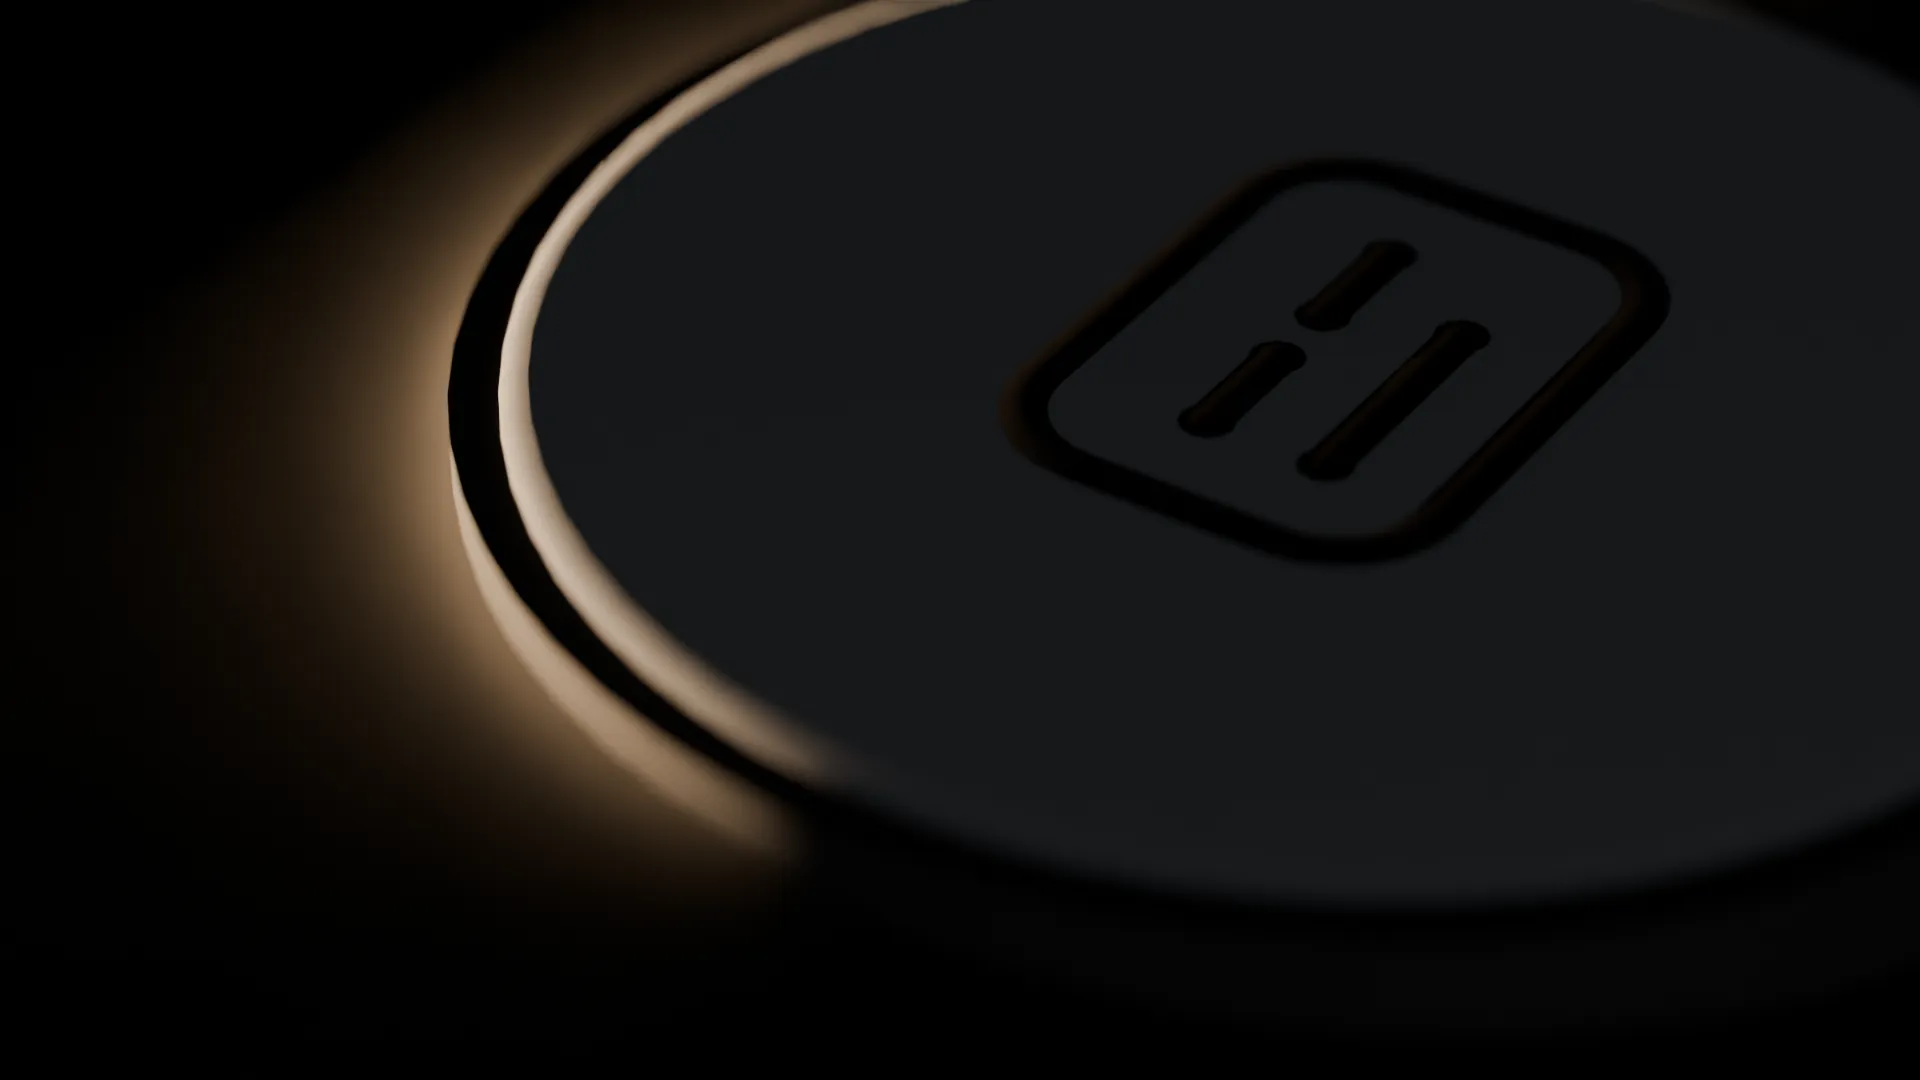
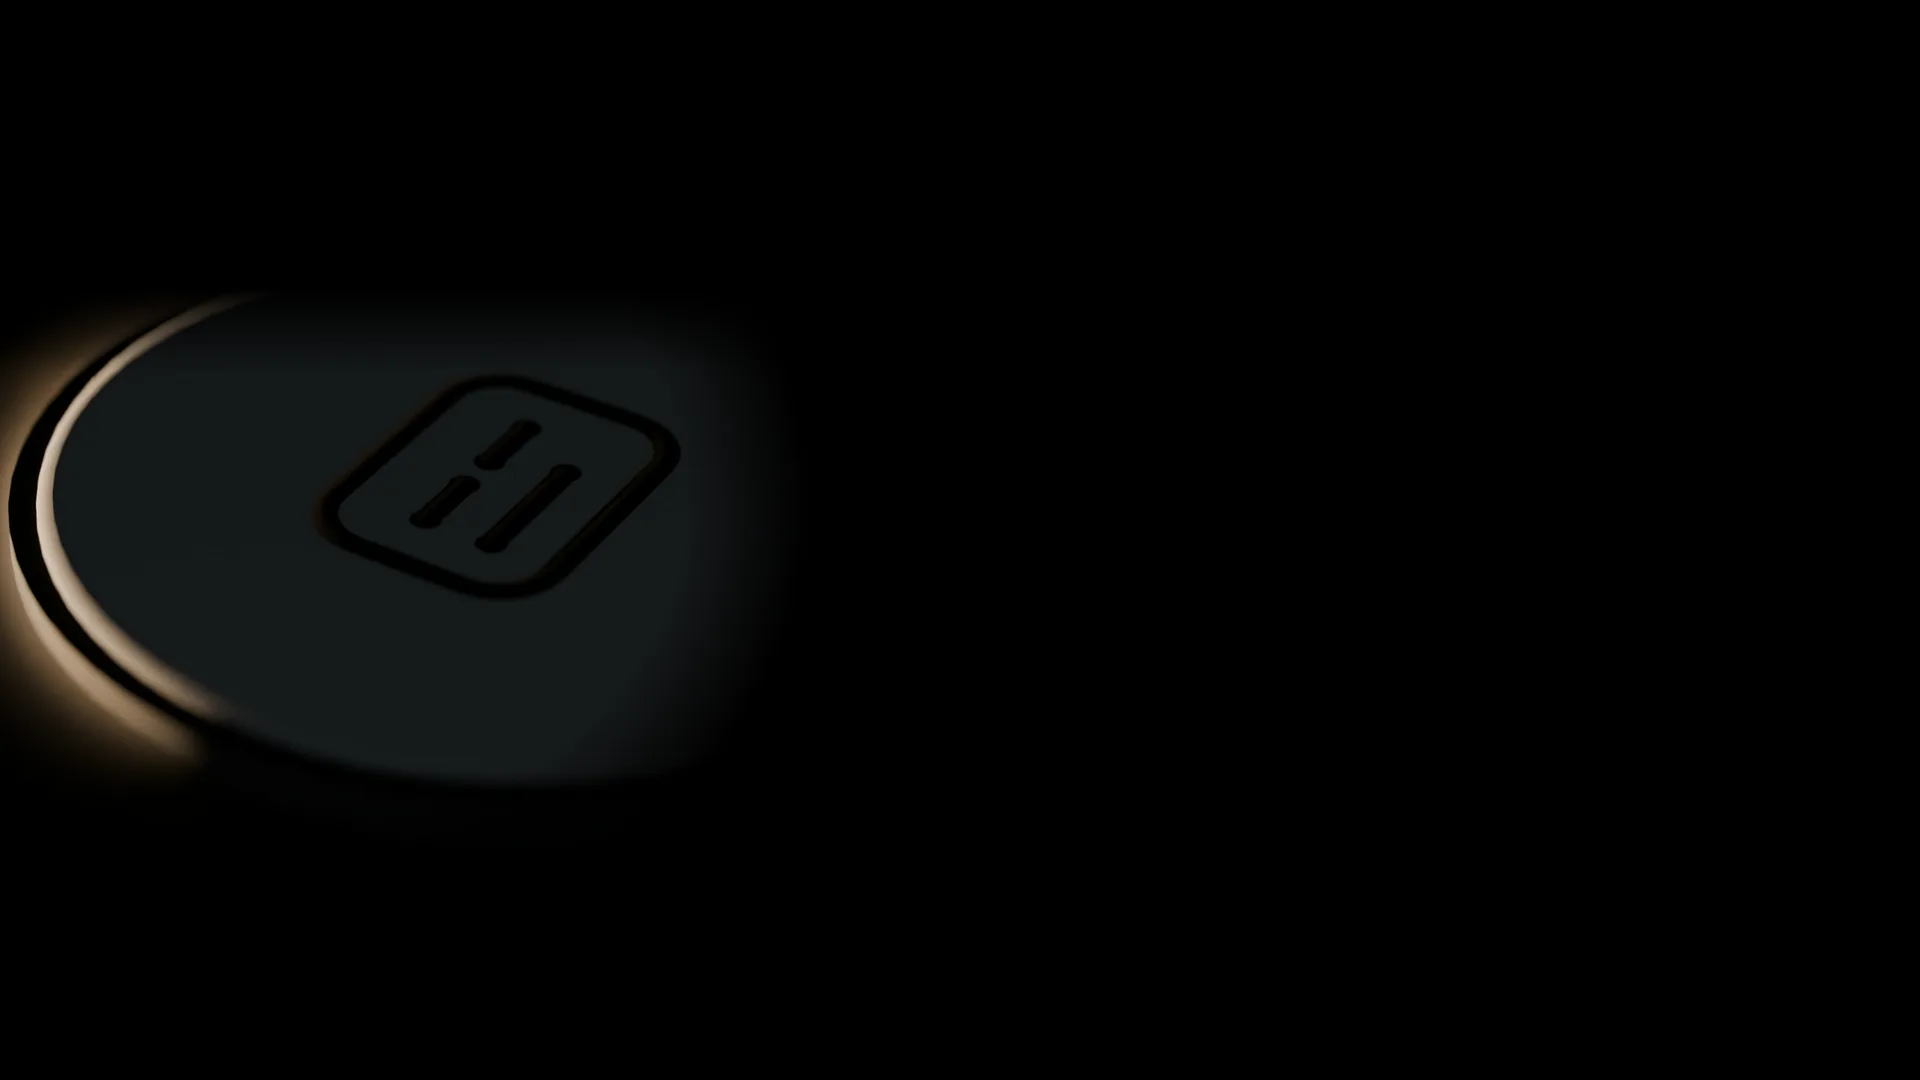
Hero poster recomposed (design/poster/render.mjs): the key in the left third so the centred READY key never covers its glyph; READY centred everywhere again

diff --git a/design/poster/poster.html b/design/poster/poster.html
@@ -1,0 +1,54 @@
+<!doctype html>
+<html lang="en">
+  <head>
+    <meta charset="UTF-8" />
+    <title>Tactile — hero poster</title>
+    <!--
+      The hero poster (apps/preview/public/poster.webp, 1920 × 1080), made by render.mjs. Frame 43 of the final film's
+      3D render (the same frame as the cover, design/cover/key-f43.jpg) on the render's own black, scaled to --k and
+      placed so the key's glyph (render box x 1010–1670, y 160–560, centre 1340 × 360) is centred at --gx × --gy. The
+      centred READY key must never touch the glyph: at 390 px the 88 × 52 key starts at 37.7 % of the width, so the
+      glyph ends before it (k 0.55 at 26 %: right edge at 35.5 %). The image fades into the black at its cut edges,
+      which keeps the render's vignette. No text.
+    -->
+    <style>
+      html,
+      body {
+        margin: 0;
+        background: #000;
+      }
+
+      .frame {
+        --k: 0.55;
+        --gx: 499px; /* 26 % of 1920 */
+        --gy: 486px; /* 45 % of 1080 */
+        position: relative;
+        width: 1920px;
+        height: 1080px;
+        overflow: hidden;
+        background: #000;
+      }
+
+      .key {
+        position: absolute;
+        left: calc(var(--gx) - 1340px * var(--k));
+        top: calc(var(--gy) - 360px * var(--k));
+        width: calc(1920px * var(--k));
+        height: calc(1080px * var(--k));
+        /* the top and bottom cut edges fade into the black; the right one is under the vignette */
+        mask-image: linear-gradient(transparent, #000 14%, #000 80%, transparent);
+      }
+
+      /* The render's vignette, carried on: clear over the glyph and the lit rim, black by the image's right edge, so the key
+         face darkens away instead of ending at a cut. */
+      .vignette {
+        position: absolute;
+        inset: 0;
+        background: radial-gradient(ellipse 460px 430px at 350px 500px, transparent 73%, #000 100%);
+      }
+    </style>
+  </head>
+  <body>
+    <div class="frame" id="frame"><img class="key" src="../cover/key-f43.jpg" alt="" /><div class="vignette"></div></div>
+  </body>
+</html>

diff --git a/apps/preview/src/showcase/showcase.css b/apps/preview/src/showcase/showcase.css
@@ -1939,15 +1939,3 @@ kbd {
   border-top: 0;
   border-bottom: 5px solid #151413;
 }
-
-/* Hero, READY, player under 520 px: the poster (render f43) has the key's glyph above the centre, where the 88 × 52
-   Play key would cover its lower-left corner. The frame is 16:9 like the poster, so object-position has no room to
-   move it; the key goes to the bottom-right corner instead, 12 px in like the duration pill opposite. END and the
-   phone's paused key stay centred. */
-@container media-root (width < 520px) {
-  #hero-frame .tactile-center:has(.tactile-center-play:not([data-started])) {
-    align-items: flex-end;
-    justify-content: flex-end;
-    padding: 0 12px 12px 0;
-  }
-}

diff --git a/apps/preview/src/frame/player.ts b/apps/preview/src/frame/player.ts
@@ -7,7 +7,7 @@ import skinTemplate from '@/video/skin.html?raw';
 // The Tactile film "From object to interface" (27.5 s, 1080p) on Mux, HLS through `mux-video`.
 const PLAYBACK_ID = 'qSuGOUoDG02f3O024g1A9FRbyM00BNxdKL400pA5e1C4JI8';
 const SRC = `https://stream.mux.com/${PLAYBACK_ID}.m3u8`;
-/** Frame 43 of the film's 3D render (the rim-lit key, no title over it), served from `apps/preview/public`. */
+/** Frame 43 of the film's 3D render, the key in the left third (design/poster/render.mjs), served from `apps/preview/public`. */
 const POSTER = './poster.webp';
 /** The film's captions, one cue per shot; off until the viewer turns them on. */
 const CAPTIONS = './captions.en.vtt';

diff --git a/apps/preview/src/showcase/players.ts b/apps/preview/src/showcase/players.ts
@@ -6,7 +6,7 @@ import '@/video/skin';
 import skinTemplate from '@/video/skin.html?raw';
 
 export function bootPlayers(): void {
-  /** Poster before playback: frame 43 of the film's 3D render, the rim-lit key with no title over it (1920 px WebP in `public/`). */
+  /** Poster before playback: frame 43 of the film's 3D render, the key at 0.55 in the left third so the centred READY key never covers its glyph (design/poster/render.mjs; 1920 px WebP in `public/`). */
   const POSTER_SRC = './poster.webp';
 
   /** The film "From object to interface" (27.5 s, 1080p) on Mux, HLS through `mux-video`. Playback ID is public. */

diff --git a/design/fidelity.md b/design/fidelity.md
@@ -261,7 +261,7 @@ not changed.
   stats box with the ticker row and the 3-column grid, 76px footer. Narrow (container ≤ 700px): h1 34, titles 26,
   footer 30, single-column grids, stacked test bar.
 - **Hero.** The board's mock dock over a still is the real Video.js v10 player with the skin (`--media-border-radius:
-  16px`). The poster (`POSTER_SRC`) is frame 43 of the final film's 3D render since 2026-11-11 (the rim-lit key with no burned-in title, so the READY key never sits on a title; `poster.webp` 1920 px; it was film frame 45);
+  16px`). The poster (`POSTER_SRC`) is frame 43 of the final film's 3D render since 2026-11-11, composed by design/poster/render.mjs: the key at 0.55, its glyph centred at 26 % × 45 % on the render's black with a vignette, no text, so the centred READY key (112 × 64, 88 × 52 under 520 px) clears the glyph at 1440, 810 and 390 (gaps 105, 52, 8 px); `poster.webp` 1920 px; it was film frame 45);
   the flatten frame would double the dock. The media is the film on Mux (playback ID in `VIDEO_SOURCE`,
   2026-11-10), with `captions.en.vtt` (one cue per shot 4–8, off by default) as the one text track.
 - **H1.** Two intended lines on desktop, "A PLAYER" / "YOU CAN PRESS", via a `<br>`; under 700px the break is
